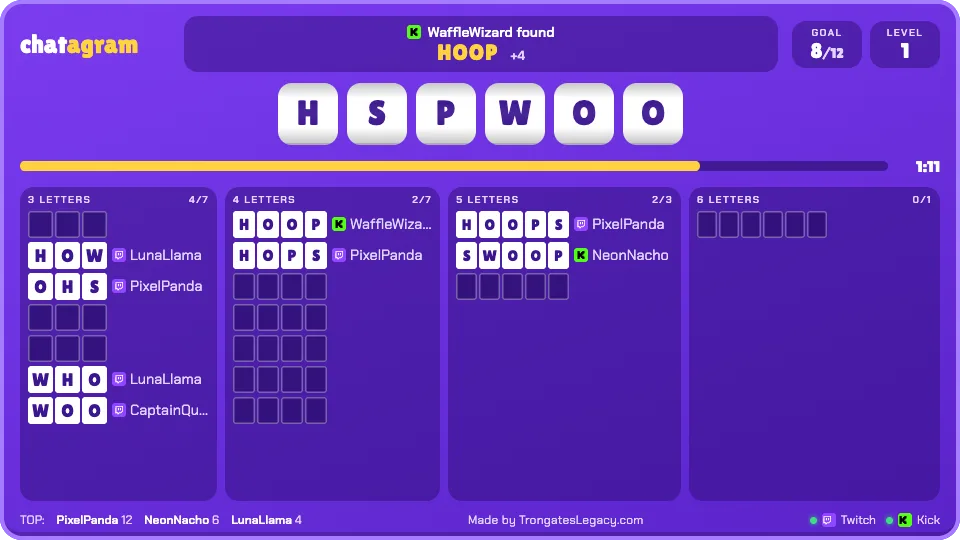
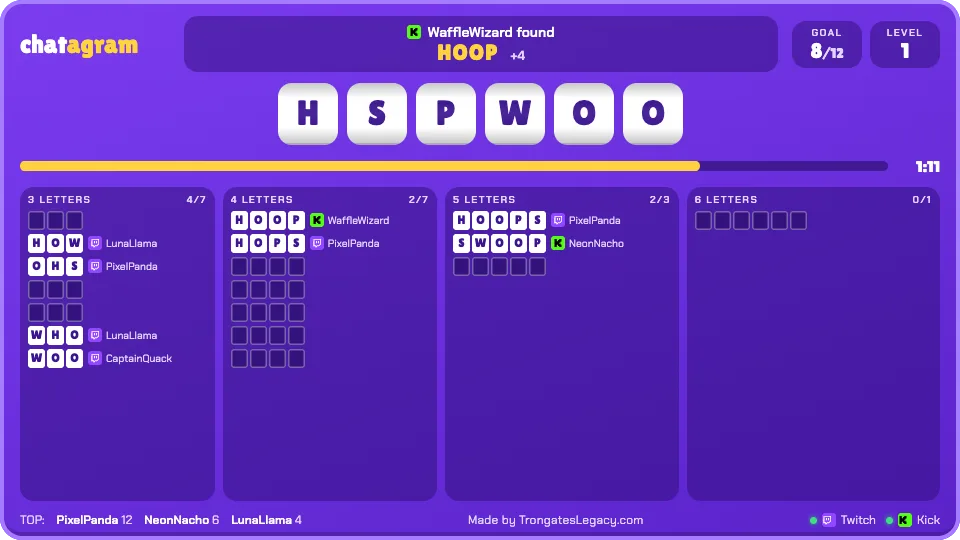
Re-rendered Chatagram theme pictures and share image for the new board layout and 'made by TrongatesLegacy'; docs

Changed region(s): [[0.0312, 0.3556, 0.875, 0.9185]]

diff --git a/artwork/chatagram/og.html b/artwork/chatagram/og.html
@@ -19,7 +19,7 @@ h1 { position: absolute; left: 64px; top: 196px; width: 520px; margin: 0; font: 
 .url { position: absolute; right: 48px; bottom: 60px; font-size: 22px; color: #bcb4dc; } .url b { color: #fff7ec; }
 </style></head><body>
 <div class="logo"><img src="/chatagram/assets/icon.svg" alt=""><span>chat<b>agram</b></span></div>
-<div class="by">by Trongates Legacy</div>
+<div class="by">made by TrongatesLegacy</div>
 <h1>The word game your <em>whole chat</em> plays.</h1>
 <div class="chips"><span><i style="background:#9146ff"></i>Twitch</span><span><i style="background:#53fc18"></i>Kick</span><span>Free</span></div>
 <div class="screen"><iframe src="/chatagram/play.html?still=1&diff=easy&layout=compact" style="width:560px;height:230px;transform:translate(-50%,-50%) scale(.96)"></iframe></div>

diff --git a/docs/widgets.md b/docs/widgets.md
@@ -104,7 +104,9 @@ passed in, so the tests replay any game exactly.
 ## Chatagram: the overlay
 
 `play.html` is the OBS browser source: **full** 960 × 540 (16:9, exactly half of 1920 × 1080, so a full-screen source
-shows it at a clean 2×; every word slot, in columns by length, fitted into at most five columns, rows as big as fit) or **compact** 560 × 230 (bigger tiles, the last three finds, the count). The board scales to fit if the
+shows it at a clean 2×; every word slot in columns by length; the layout measures what fits the width and picks the biggest
+letter boxes it can, with players' names beside the words when they fit, without them for very big puzzles; narrow
+columns shorten their heading to the length) or **compact** 560 × 230 (bigger tiles, the last three finds, the count). The board scales to fit if the
 source is another size. With one platform the badges beside names go, and the summary's "Twitch vs Kick" box becomes
 round highlights (fastest find, longest streak, last-second save).
 
@@ -154,7 +156,7 @@ node scripts/build-words.mjs --scowl /tmp/scowl
 
 Its own brand, not the site's: lowercase wordmark **chat**agram in Lilita One (Chakra Petch for text, both already
 self-hosted), the speech-bubble tile mark (`assets/icon.svg`), ink `#16122b`, coral `#ff5a5f`, sun `#ffc93c`, mint
-`#2ee6a8`, paper `#fff7ec`. The header says **by Trongates Legacy**; the overlay's footer credit
+`#2ee6a8`, paper `#fff7ec`. The header says **made by TrongatesLegacy** (one word, the owner's choice) and links to the homepage; the overlay's footer credit
 `Made by TrongatesLegacy.com` (the owner's choice of spelling for the credit) is on by default and can be turned off
 (Advanced → Other).
 
@@ -171,8 +173,9 @@ self-hosted), the speech-bubble tile mark (`assets/icon.svg`), ink `#16122b`, co
   game over; **Copy OBS link** sits under it; the full link hides behind "Show link". On phones the preview goes first
   and a Copy bar stays at the bottom. The preview is re-themed by message, so changing theme or accent never reloads it.
 - Indexed (in `sitemap.xml`) with its own title, description, canonical, share image and JSON-LD. The overlay isn't.
-- **Pictures before live games**: the hero and the set-up preview show a picture at once and the live game fades in
-  over it when it has drawn; the theme gallery and the widgets page only ever show pictures (click a theme to use it).
+- **Pictures before live games**: the hero and the set-up preview show a picture at once (sized exactly like the live
+  board) and the live game fades in over it when it has drawn, while the picture fades out (both showing at once looked
+  like two games stacked; a browser test guards it); the theme gallery and the widgets page only ever show pictures (click a theme to use it).
   They're the real overlay, rendered per theme and layout by
   `node --experimental-websocket artwork/chatagram/render-previews.mjs` into `public/chatagram/assets/themes/`; re-run it
   whenever the overlay's look changes (a test checks every theme has both). `/chatagram/words/*` and `/chatagram/assets/*`
